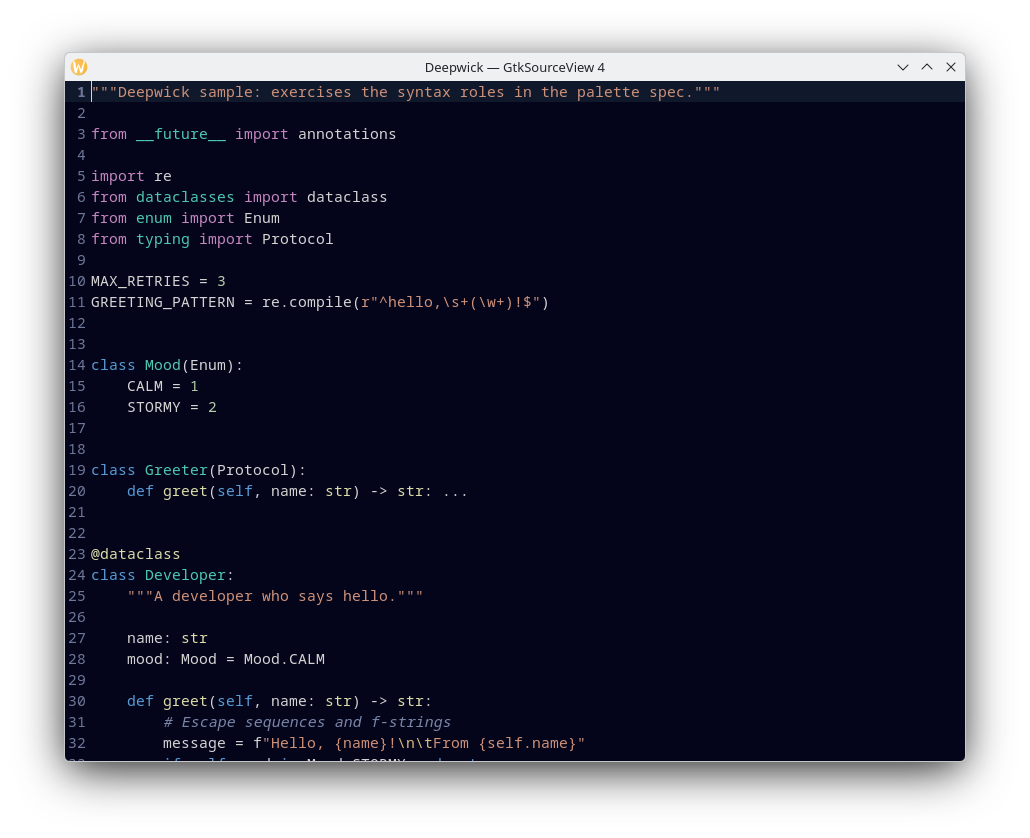
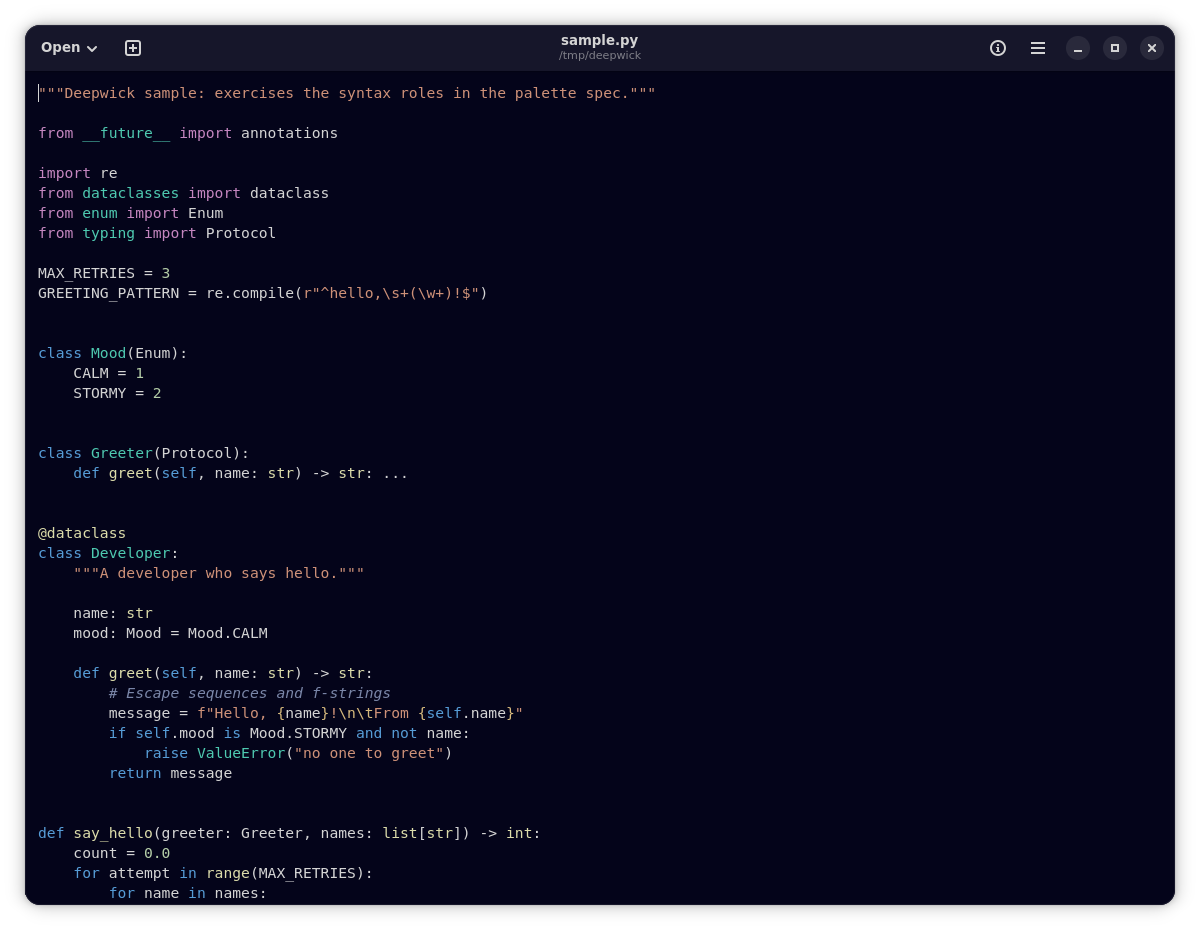
Verify in GNOME Text Editor (GtkSourceView 5); operators are Foreground

Changed region(s): [[0.0, 0.0, 0.9942, 0.9928], [0.466, 0.3413, 0.5282, 0.3723], [0.2796, 0.4964, 0.3107, 0.5274]]

diff --git a/generate.py b/generate.py
@@ -41,6 +41,7 @@ SYNTAX = [
     ("def:special-constant", {"foreground": "blue"}),
     ("def:boolean", {"foreground": "blue"}),
     ("def:statement", {"foreground": "magenta"}),
+    ("def:operator", {"foreground": "foreground"}),
     ("def:type", {"foreground": "teal"}),
     ("def:function", {"foreground": "yellow"}),
     ("def:builtin", {"foreground": "yellow"}),

diff --git a/tests/test_scheme.py b/tests/test_scheme.py
@@ -27,6 +27,7 @@ EXPECTED = {
     "def:comment": ("comment", None),
     "def:keyword": ("blue", None),
     "def:statement": ("magenta", None),
+    "def:operator": ("foreground", None),
     "def:type": ("teal", None),
     "def:function": ("yellow", None),
     "def:identifier": ("lightBlue", None),

diff --git a/README.md b/README.md
@@ -44,9 +44,11 @@ gsettings set org.gnome.TextEditor style-scheme deepwick
 
 ## Notes
 
-- GtkSourceView: Python and JavaScript/TypeScript keywords share one style, so
-  control flow (`if`, `return`, `for`) is Blue there; C keywords are split, so C
-  control flow is Magenta.
+- GtkSourceView: Python control flow is mostly Blue. Version 4 gives every
+  Python keyword one style; version 5 makes `return` and `raise` Magenta but
+  keeps `if`, `for` and `and`/`or`/`not`/`is`/`in` Blue. JavaScript/TypeScript
+  keywords share one style, so their control flow is Blue too. C keywords are
+  split, so C control flow is Magenta.
 - Python docstrings are strings (Orange), not comments.
 - JavaScript/TypeScript user function and type names are not highlighted.
 - A C preprocessor line is one style (bold Muted), so macro names are not
@@ -56,7 +58,7 @@ gsettings set org.gnome.TextEditor style-scheme deepwick
 - GtkSourceView 4 rejects the `<metadata>` block that marks the scheme dark in
   version 5, so there are two files; both are generated by `generate.py`.
 
-Tested with GtkSourceView 4.8.4.
+Tested with GNOME Text Editor 51.0 (GtkSourceView 5, Flathub) and GtkSourceView 4.8.4.
 
 ## License
 
